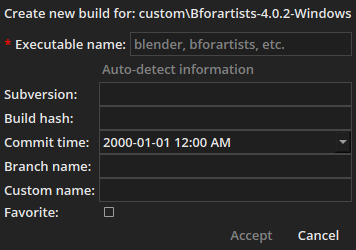
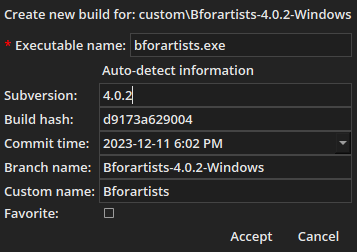
Complete the documentation for the build initialization

diff --git a/docs/mkdocs/build_initialization.md b/docs/mkdocs/build_initialization.md
@@ -8,13 +8,55 @@
       <figcaption>Custom Build Library</figcaption>
     </figure>
 
-Build initialization is used to set all the Blender Build information on the first intalation of a custom build
+Build initialization is used to set all the Blender Build information on the first installation of a custom build.
 
-## Initialization Option 
+## Initialization Options 
 
 ??? image "Screenshots"
 
     <figure>
       <img src="../imgs/library_custom_build_initialization_settings.png"/>
-      <figcaption>Custom Build Library</figcaption>
+      <figcaption>Initialization Options</figcaption>
     </figure>
+
+### Executable Name
+
+Enter the name of the executable for the custom Blender version.
+    
+!!! info
+    This supports auto-completion and will show you the existing available executable files as you type.
+
+!!! warning
+    Make sure to input the correct executable name and do not select the BlenderLauncher.exe file. 
+
+### Auto Detect Information
+
+If the executable file has been found, the Auto Detect Option will be available. You can click on it to autofill all the build info fields.
+
+### Subversion
+
+Subversion corresponds to the Blender version you are initializing.
+Example format: 4.0.2
+
+### Build Hash
+
+Unique build ID.
+
+### Commit Time
+
+Time when the build was created. 
+
+### Branch Name
+
+Name of the branch used to make the build.
+
+### Custom Name
+
+Name the build will have in the Blender Launcher.
+
+!!! info
+    You can set any desired name here.
+
+### Favorite
+
+Add the build to the Favorite builds in the Blender Launcher.
